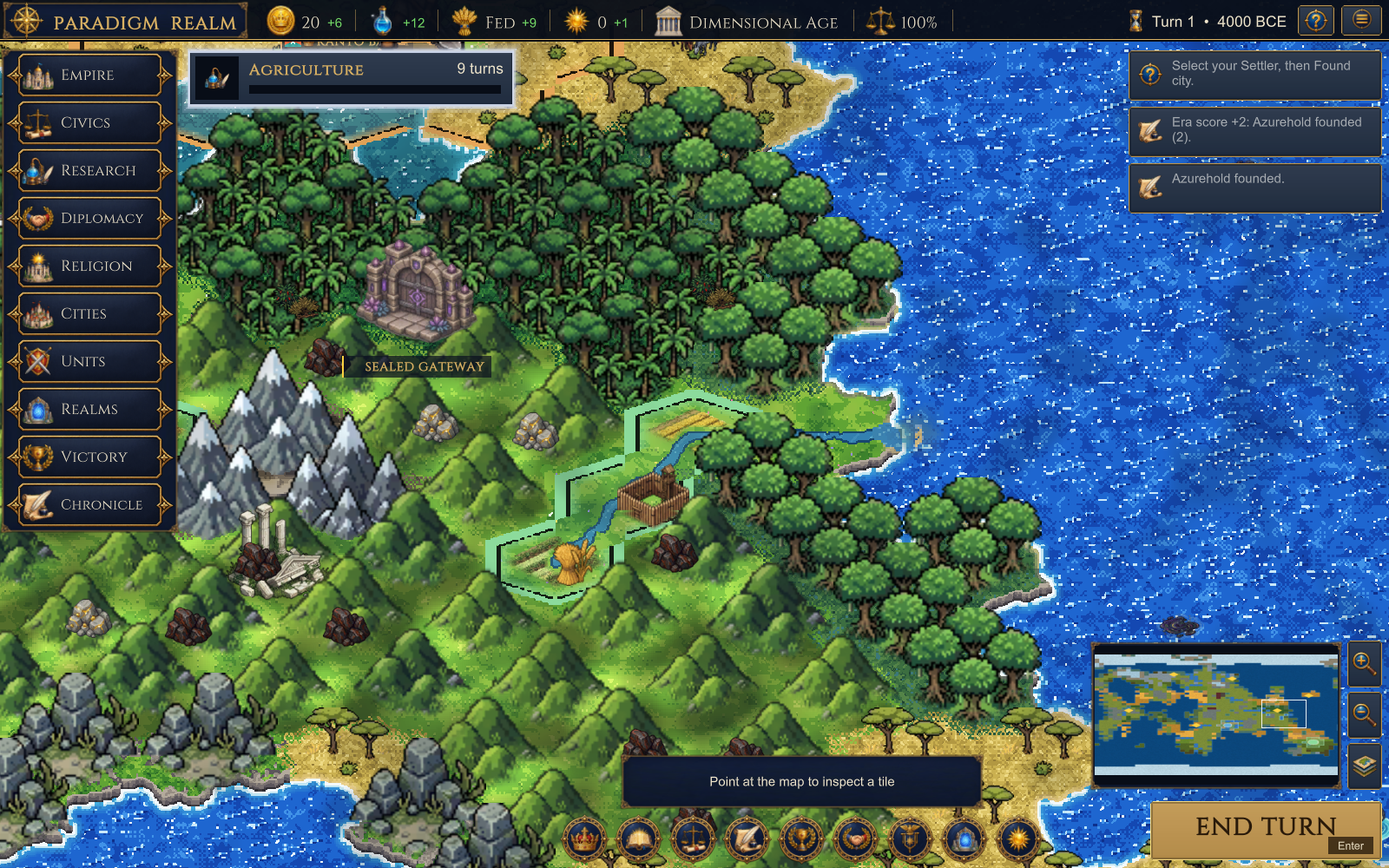
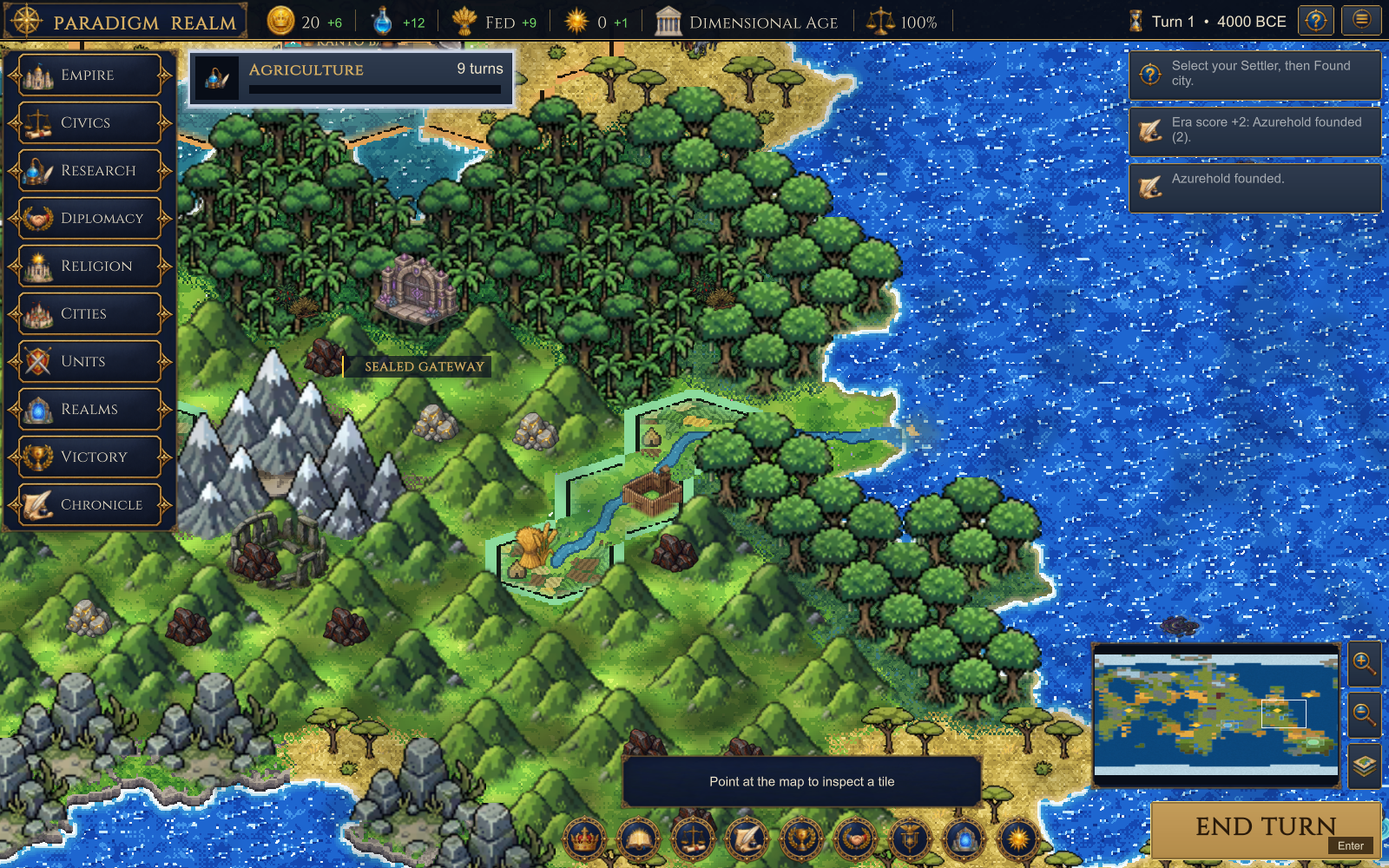
Level shores, looser river mouths, patchwork farms by rivers, smaller gates
- Only the rocky coastline has a cliff; every other shore is level with
  the sea.
- River mouths flare with uneven banks and scattered shoals.
- A farm on a river tile is a patchwork of plots on both banks; farmsteads,
  mines, forts, villages, ruins and resource markers stand on the tile's
  driest spot instead of the water.
- Gateways drawn 30% smaller, in the middle of their tile.
- The eastern temple ruin is no longer used.

Checks extended; engine harness and Unity checks pass; a build ran
-mapShot and -autoShot with no exceptions. Not hand-played.

diff --git a/Unity/Assets/Scripts/IsoRenderer.cs b/Unity/Assets/Scripts/IsoRenderer.cs
@@ -188,33 +188,15 @@ namespace ParadigmRealm
             else if(PixelArt.IsWater(t.terrain))for(int k=0;k<dirs;k++){var n=world.Step(t.x,t.y,offI[k],offJ[k]);if(IsoKnownTerrain(n)!=7)continue;int flow=world.RiverLinks(world.At(n.x,n.y));if(flow<0||(flow&(1<<((k+dirs/2)%dirs)))!=0)mask|=1<<k;}
             return mask;
         }
-        // A farm on a river tile leaves the river clear (owner request, 10 Nov 2026): the field picture is cut away over the water
-        // and a little either side of it, so the furrows stop at the banks. One picture is kept for each field, river shape and layout.
+        // A farm on a river tile is a patchwork of small plots on both banks that leaves the river and its banks clear (owner
+        // request, 10 Nov 2026; PixelArt.FarmQuilt). One picture is kept for each river shape, layout and pattern.
         readonly Dictionary<long,Texture2D> riverFields=new Dictionary<long,Texture2D>();
-        Texture2D FieldAroundRiver(Texture2D field,int fieldVariant,Tile t,float spanX,float spanY)
+        Texture2D RiverQuilt(Tile t)
         {
-            int mask=RiverMaskOf(t),variant=(t.x*7+t.y*3)%3;long key=fieldVariant|((long)mask<<4)|((long)variant<<12)|(world.Hex?1L<<16:0);
+            int mask=RiverMaskOf(t),variant=(t.x*7+t.y*3)%3,seed=((t.x*5+t.y*3)&0x7fffffff)%4;long key=seed|((long)mask<<4)|((long)variant<<12)|(world.Hex?1L<<16:0);
             Texture2D made;if(riverFields.TryGetValue(key,out made)&&made!=null)return made;
-            try
-            {
-                var px=ReadArtPixels(field);int w=field.width,h=field.height;var river=PixelArt.RiverShape(world.Hex,mask,variant);var cv=new PixelCanvas(w,h);
-                for(int y=0;y<h;y++)for(int x=0;x<w;x++)
-                {
-                    uint c=px[y*w+x];if((c>>24)==0)continue;
-                    // Where this field pixel falls on the tile picture, and how near the river is there.
-                    double rx=(.5+((x+.5)/w-.5)*spanX)*river.w,ry=(.5+((y+.5)/h-.5)*spanY)*river.h;double near=99;
-                    for(int dy=-4;dy<=4;dy++)for(int dx=-4;dx<=4;dx++){int qx=(int)Math.Floor(rx)+dx,qy=(int)Math.Floor(ry)+dy;if(qx<0||qy<0||qx>=river.w||qy>=river.h||(river.Get(qx,qy)>>24)==0)continue;double d=Math.Sqrt(dx*dx+dy*dy);if(d<near)near=d;}
-                    if(near<=2.2)continue;                         // the water and its grassy bank
-                    if(near<=3.4){uint a=(uint)((c>>24)*.55);c=(a<<24)|(c&0xFFFFFFu);} // the field thins out toward the bank
-                    cv.Set(x,y,c);
-                }
-                made=SoftTexture(cv);themeTextures.Add(made);
-            }
-            catch(Exception){made=field;}
-            riverFields[key]=made;return made;
+            made=TileTexture(PixelArt.Scale2x(PixelArt.FarmQuilt(world.Hex,mask,variant,seed)));riverFields[key]=made;return made;
         }
-        // Which side of a river tile is freer of water: -1 west, +1 east. Mines and forts stand there, beside the river, not on it.
-        int DrySide(Tile t){int mask=RiverMaskOf(t),east=0,west=0;int[] offI=world.Hex?World.HexDi:new[]{0,1,0,-1};for(int k=0;k<offI.Length;k++)if((mask&(1<<k))!=0){if(offI[k]>0)east++;else if(offI[k]<0)west++;}return east<west?1:east>west?-1:((t.x+t.y)&1)==0?1:-1;}
         // ---------- drawing ----------
         void DrawIsoMap()
         {
@@ -237,12 +219,17 @@ namespace ParadigmRealm
             // Map-aligned gate pictures (owner's pack, 10 Nov 2026): 256 x 256 with the ground line 16 pixels above the bottom edge and the
             // platform about 87% of the width. Drawn one tile wide, so the platform fits inside the tile, its front corner just above
             // the tile's lower tip; open and sealed pictures of a gate share this placement.
-            float w=64*s,h=w*art.height/Mathf.Max(1,art.width);GUI.DrawTexture(new Rect(sx-w/2,gy+TileHalf()*s-2*s+h*GateBaseline-h,w,h),art,ScaleMode.ScaleToFit,true);return true;}
+            // 30% smaller than a full tile (owner request, 10 Nov 2026: "they must blend more into the landscape"), standing in the
+            // middle of its tile on a soft patch of shade so it sits in the ground, not on top of it.
+            float w=64*s*GateScale,h=w*art.height/Mathf.Max(1,art.width),foot=gy+TileHalf()*s*.5f;
+            var keep=GUI.color;GUI.color=new Color(keep.r,keep.g,keep.b,keep.a*.55f);GUI.DrawTexture(new Rect(sx-w*.46f,foot-w*.2f,w*.92f,w*.3f),IsoPicture(4,8,0));GUI.color=keep;
+            GUI.DrawTexture(new Rect(sx-w/2,foot+h*GateBaseline-h,w,h),art,ScaleMode.ScaleToFit,true);return true;}
+        const float GateScale=.7f;
         const float GateBaseline=16f/256f;
         float TileHalf(){return (world.Hex?PixelArt.HH:PixelArt.DH)/2f;}
         // Ruins in five architectural styles (owner request, 9 Nov 2026), suited to the land: sandstone in desert and steppe, a stepped
-        // pyramid in jungle and mangrove, otherwise classical columns, a stone circle or an eastern temple chosen by place.
-        static int RuinStyle(Tile t){if(t.terrain==3||t.terrain==10||t.terrain==20)return 1;if(t.terrain==11||t.terrain==19)return 2;int[] rest={0,3,4};return rest[((t.x*37+t.y*11)&0x7fffffff)%3];}
+        // pyramid in jungle and mangrove, otherwise classical columns or a stone circle chosen by place.
+        static int RuinStyle(Tile t){if(t.terrain==3||t.terrain==10||t.terrain==20)return 1;if(t.terrain==11||t.terrain==19)return 2;int[] rest={0,3};return rest[((t.x*37+t.y*11)&0x7fffffff)%2];}// the eastern temple (ruin-4) was removed at the owner's request, 10 Nov 2026; the file is kept
         // A settlement fits inside its own tile (owner request, 9 Nov 2026: no overlap onto the next tile): 54 pixels, its lower tip on the tile's.
         Rect SettlementRect(float sx,float gy,float s){float size=54*s;return new Rect(sx-size/2,gy+TileHalf()*s-size,size,size);}
         Texture2D ruinTexture;
@@ -302,7 +289,11 @@ namespace ParadigmRealm
                 var old=GUI.color;if(!visible)GUI.color=Remembered;
                 var ground=TileRect(sx,sy,s);
                 GUI.DrawTexture(ground,IsoGround(t,i,j,frame));
-                if(!water&&t.farm){var field=SpriteSlot("field-"+(IsoVariant(t.x,t.y)%3));if(field!=null){float fw=ground.width*.86f,fh=fw*field.height/Mathf.Max(1,field.width);if(t.terrain==7)field=FieldAroundRiver(field,IsoVariant(t.x,t.y)%3,t,.86f,fh/Mathf.Max(1,ground.height));GUI.DrawTexture(new Rect(ground.center.x-fw/2,ground.center.y-fh/2,fw,fh),field,ScaleMode.StretchToFill,true);}else{var farm=IsoPicture(2,IsoVariant(t.x,t.y),0);if(farm!=null)GUI.DrawTexture(ground,farm);}}
+                // On a river tile nothing is built on the water (owner request, 10 Nov 2026): farmsteads, mines, forts, villages, ruins
+                // and resource markers stand on the driest part of the tile, smaller where the room is tight.
+                Vector2 dry=Vector2.zero;float dryScale=1;
+                if(t.terrain==7){double dfx,dfy,room;PixelArt.DrySpot(world.Hex,RiverMaskOf(t),(t.x*7+t.y*3)%3,out dfx,out dfy,out room);dry=new Vector2((float)(dfx-.5)*ground.width,(float)(dfy-.5)*ground.height);dryScale=Mathf.Clamp((float)room/15f,.42f,1f);}
+                if(!water&&t.farm){var field=SpriteSlot("field-"+(IsoVariant(t.x,t.y)%3));if(t.terrain==7)GUI.DrawTexture(ground,RiverQuilt(t));else if(field!=null){float fw=ground.width*.86f,fh=fw*field.height/Mathf.Max(1,field.width);GUI.DrawTexture(new Rect(ground.center.x-fw/2,ground.center.y-fh/2,fw,fh),field,ScaleMode.StretchToFill,true);}else{var farm=IsoPicture(2,IsoVariant(t.x,t.y),0);if(farm!=null)GUI.DrawTexture(ground,farm);}}
                 if(t.road)
                 {
                     var road=RoadPicture(t);if(road!=null)GUI.DrawTexture(ground,road);
@@ -339,16 +330,17 @@ namespace ParadigmRealm
                 else if(sprite!=null){if(portOf!=null)treeScale=.82f;else if(hamlet)treeScale=.5f;/* farmsteads at half size: their houses match the city's buildings (owner request, 9 Nov 2026) */
                     // No two hills are the same size or sit in quite the same place on their tile, so a range does not line up in rows
                     // (owner report, 10 Nov 2026).
-                    float hillX=0,hillY=0;if(t.terrain==2&&!hamlet&&portOf==null){int hv=(t.x*92821+t.y*68917)&0x7fffffff;treeScale=.9f+(hv%19)/100f;hillX=((hv/19%9)-4)*.9f*s;hillY=((hv/171%7)-3)*.7f*s;}
+                    float hillX=dry.x,hillY=dry.y;if(t.terrain==7)treeScale*=Mathf.Max(.8f,dryScale);if(t.terrain==2&&!hamlet&&portOf==null){int hv=(t.x*92821+t.y*68917)&0x7fffffff;treeScale=.9f+(hv%19)/100f;hillX=((hv/19%9)-4)*.9f*s;hillY=((hv/171%7)-3)*.7f*s;}
                     GUI.DrawTexture(new Rect(sx-PixelArt.AX*s*treeScale+hillX,gy-PixelArt.AY*s*treeScale+hillY,64*s*treeScale,64*s*treeScale),sprite);}
                 if(portOf!=null&&!portOf.portLinked&&portOf.owner==0){var warn=new Rect(sx+8*s,gy-22*s,9*s,9*s);Fill(warn,new Color(.85f,.2f,.15f,.92f));GUI.Label(warn,"!",small);}
                 var improvement=new Rect(sx-18*s,gy-22*s,36*s,36*s);
                 // Mines and forts are drawn at the map's angle and sized to their tile (owner request, 9 Nov 2026); the old upright pictures are the fallback.
                 // On a river tile they are drawn smaller and to the drier side, so the river still runs past them (owner request, 10 Nov 2026).
-                float besideRiver=t.terrain==7&&(t.mine||t.fort)?DrySide(t)*13*s:0,riverScale=t.terrain==7?.72f:1f;
-                if(t.mine){var art=SpriteSlot("improve-mine");if(art!=null)GUI.DrawTexture(new Rect(sx-21*s*riverScale+besideRiver,gy+TileHalf()*s-44*s*riverScale-(1-riverScale)*10*s,42*s*riverScale,42*s*riverScale),art,ScaleMode.ScaleToFit,true);else DrawArt("mine",improvement);}
-                if(t.fort){var art=SpriteSlot("improve-fort");if(art!=null)GUI.DrawTexture(new Rect(sx-23*s*riverScale+besideRiver,gy+TileHalf()*s-48*s*riverScale-(1-riverScale)*10*s,46*s*riverScale,46*s*riverScale),art,ScaleMode.ScaleToFit,true);else DrawArt("fort",improvement);}
-                if(source.ruin){var ruinArt=SpriteSlot("ruin-"+RuinStyle(t));if(ruinArt!=null)GUI.DrawTexture(new Rect(sx-24*s,gy+TileHalf()*s-50*s,48*s,48*s),ruinArt,ScaleMode.ScaleToFit,true);else{if(ruinTexture==null)ruinTexture=PixelTexture(PixelArt.Ruins());GUI.DrawTexture(new Rect(sx-PixelArt.AX*s,gy-PixelArt.AY*s,64*s,64*s),ruinTexture);}}
+                // On a river tile the picture's footing (about two thirds of the way down it) is set on the dry spot.
+                bool riverTile=t.terrain==7;if(riverTile)improvement=new Rect(improvement.x+dry.x,improvement.y+dry.y+8*s,improvement.width,improvement.height);
+                if(t.mine){var art=SpriteSlot("improve-mine");float size=42*s*dryScale;if(art!=null)GUI.DrawTexture(riverTile?new Rect(sx+dry.x-size/2,gy+dry.y-size*.7f,size,size):new Rect(sx-21*s,gy+TileHalf()*s-44*s,42*s,42*s),art,ScaleMode.ScaleToFit,true);else DrawArt("mine",improvement);}
+                if(t.fort){var art=SpriteSlot("improve-fort");float size=46*s*dryScale;if(art!=null)GUI.DrawTexture(riverTile?new Rect(sx+dry.x-size/2,gy+dry.y-size*.7f,size,size):new Rect(sx-23*s,gy+TileHalf()*s-48*s,46*s,46*s),art,ScaleMode.ScaleToFit,true);else DrawArt("fort",improvement);}
+                if(source.ruin){var ruinArt=SpriteSlot("ruin-"+RuinStyle(t));float size=48*s*dryScale;if(ruinArt!=null)GUI.DrawTexture(riverTile?new Rect(sx+dry.x-size/2,gy+dry.y-size*.7f,size,size):new Rect(sx-24*s,gy+TileHalf()*s-50*s,48*s,48*s),ruinArt,ScaleMode.ScaleToFit,true);else{if(ruinTexture==null)ruinTexture=PixelTexture(PixelArt.Ruins());GUI.DrawTexture(new Rect(sx-PixelArt.AX*s,gy-PixelArt.AY*s,64*s,64*s),ruinTexture);}}
                 // A sealed gateway the player has found keeps its name on the map (owner request).
                 {var story=world.livingWorld?world.StoryAt(source.x,source.y):null;if(story!=null&&story.deaths>=LivingCatalog.GraveyardAt){isoCityNames.Add("Graveyard");isoCityPos.Add(new Vector2(sx,gy));isoCityInk.Add(new Color(.7f,.7f,.75f));isoCityRefs.Add(null);}}
                 if(source.gateLink>0&&source.realm==0&&world.gatesLocked&&!world.GateOpen(source)&&world.gatesFound!=null&&world.gatesFound.Contains(source.y*width+source.x)){isoGates.Add(new Vector2(sx,gy));isoGateStyles.Add(world.GateStyle(source));isoCityNames.Add("Sealed gateway");isoCityPos.Add(new Vector2(sx,gy));isoCityInk.Add(new Color(1f,.82f,.25f));isoCityRefs.Add(null);}
@@ -358,7 +350,7 @@ namespace ParadigmRealm
                 if(!visible&&!string.IsNullOrEmpty(t.rememberedCity)){GUI.DrawTexture(SettlementRect(sx,gy,s),SettlementTexture(CityVisualEra(0),3,0,t.x+t.y),ScaleMode.ScaleToFit,true);isoCityNames.Add(t.rememberedCity);isoCityPos.Add(new Vector2(sx,gy));isoCityInk.Add(new Color(.6f,.62f,.66f));isoCityRefs.Add(null);}
                 GUI.color=old;
                 int cell=t.y*width+t.x;City c;viewCities.TryGetValue(cell,out c);if(c!=null&&!(c.owner==0||visible))c=null;
-                if(t.resource>0){isoResTiles.Add(t);isoResPos.Add(new Vector2(sx,gy));isoResSeen.Add(visible);}
+                if(t.resource>0){isoResTiles.Add(t);isoResPos.Add(new Vector2(sx+dry.x,gy+dry.y-(t.terrain==7?10*s:0)));isoResSeen.Add(visible);}
                 if(c!=null){DrawCityArt(c,SettlementRect(sx,gy,s));isoCityNames.Add(c.name);isoCityPos.Add(new Vector2(sx,gy));isoCityInk.Add(nations[c.owner]);isoCityRefs.Add(c);}
                 Unit first=null,picked=null;int count=0;List<Unit> stackAt;
                 if(viewStacks.TryGetValue(cell,out stackAt))foreach(var a in stackAt){if(!(a.owner==0||visible)||Gliding(a.id))continue;count++;if(first==null)first=a;if(a.id==selected)picked=a;}

diff --git a/Unity/Assets/Scripts/PixelArt.cs b/Unity/Assets/Scripts/PixelArt.cs
@@ -1129,8 +1129,19 @@ namespace ParadigmRealm
                     // rocky rim elsewhere), sandy beaches in places and along deserts and savanna, ice at the poles.
                     if(shore<=6.2)
                     {
-                        bool ice=t==14||t==15,beach=!ice&&(t==3||t==16||(t!=18&&t!=5&&t!=17&&VNoise(gx/22.0,gy/16.0,511)>.6));
-                        if(ice||beach){if(shore<=3.2)c=MixC(c,ice?Ice[4]:Sand[3],shore<=1.5?.7:shore<=2.3?.42:.18);}
+                        // Only the rocky coastline stands above the water as a cliff (owner request, 10 Nov 2026: "other than the rocky
+                        // cliff tiles there should absolutely not be a step up from the sea to land"). Every other shore meets the sea
+                        // at its own level: sand on dry and sandy coasts, shingle or mud elsewhere, ice at the poles, and a low rim of
+                        // loose rock under mountains and volcanoes, each fading into the land with no dark line or face.
+                        bool ice=t==14||t==15,cliff=t==18;
+                        if(ice){if(shore<=3.2)c=MixC(c,Ice[4],shore<=1.5?.7:shore<=2.3?.42:.18);}
+                        else if(t==5||t==17){if(shore<=2.6)c=MixC(c,RampPick(Rock,.62+(Hsh(gx,gy,515)-.5)*.3),shore<=1.5?.6:.3);}
+                        else if(!cliff)
+                        {
+                            double kind=VNoise(gx/22.0,gy/16.0,511);uint lip=t==3||t==16||t==20||kind>.5?Sand[3]:kind>.3?MixC(Sand[2],Rgb(148,150,136),.6):MixC(Sand[1],Rgb(96,104,70),.55);
+                            double reach=3.4+1.6*VNoise(gx/9.0,gy/9.0,517);
+                            if(shore<=reach)c=MixC(c,lip,shore<=1.5?.72:shore<=2.4?.48:.24*(1-(shore-2.4)/(reach-2.3)));
+                        }
                         else
                         {
                             int below=0;for(int k=1;k<=6&&below==0;k++)if(IsWater(field[(fy+k)*W+fx]))below=k;
@@ -1201,7 +1212,7 @@ namespace ParadigmRealm
         static void RiverMouth(PixelCanvas cv,int[] field,int W,int cw,int ch,double mx,double my,double dx,double dy,int ox,int oy)
         {
             double len=Math.Sqrt(dx*dx+dy*dy);if(len<=0)return;dx/=len;dy/=len;double px=-dy,py=dx;
-            const double Up=12,Out=9,Plume=24;int seed=(int)Math.Round(ox+mx)*31+(int)Math.Round(oy+my)*17;double barSide=(Hsh(seed,7,521)-.5)*4,lean=(Hsh(seed,9,529)-.5)*.5;
+            const double Up=17,Out=9,Plume=26;int seed=(int)Math.Round(ox+mx)*31+(int)Math.Round(oy+my)*17;double barSide=(Hsh(seed,7,521)-.5)*4,lean=(Hsh(seed,9,529)-.5)*.5;
             // The coast wanders, so the shore is rarely on the tile edge itself. The mouth is set where the land really ends along the
             // river's line, looked for within eight pixels either side of the edge: the strip both tiles can see, so both agree.
             double shore=-8;for(int a=8;a>=-8;a--){int sx=(int)Math.Floor(mx+dx*a),sy=(int)Math.Floor(my+dy*a);if(sx<-Margin||sy<-Margin||sx>=cw+Margin||sy>=ch+Margin)continue;int f=field[(sy+Margin)*W+sx+Margin];if(!IsWater(f)||f==7){shore=a;break;}}
@@ -1214,7 +1225,7 @@ namespace ParadigmRealm
                 // The outflow drifts a little to one side as it leaves the shore, as a current along the coast would carry it.
                 across-=Math.Max(0,along)*lean;double side=Math.Abs(across);
                 // The funnel: as wide as the river upstream, about twice that at the shore, its banks uneven.
-                double half=2.4+(along+Up)*.36+(VNoise(gx/4.0,gy/4.0,523)-.5)*2.6;
+                double flare=Math.Max(0,Math.Min(1.25,(along+Up)/(Up+Out)));double half=2.3+7.5*Math.Pow(flare,1.9)+(VNoise(gx/5.0,gy/5.0,523)-.5)*(1.2+3.2*flare)+Math.Sin(along*.45+seed%7)*.9*flare;
                 if(!sea)
                 {
                     if(along<=Out&&side<=half)
@@ -1229,14 +1240,89 @@ namespace ParadigmRealm
                 }
                 if(along<-2)continue;
                 // The mouth bar: a low crescent of sand where the jet drops its load, its horns pointing back to the shore, awash at its edge.
-                {double bx=along-(Out+1)+across*across*.045,by=across-barSide,d=bx*bx/4.6+by*by/38.0;
-                 if(d<=1&&Hsh(gx,gy,525)>.18){cv.Set(x,y,d>.55?MixC(was,Rgb(214,232,226),.6):MixC(Sand[3],Sand[2],Hsh(gx,gy,533)));continue;}}
+                // Shoals: the coarsest sediment drops where the jet slows, in a loose arc of small sandbanks just off the mouth,
+                // awash at their edges and split by the channels between them, never one neat bar.
+                {double bx=along-(Out-1)+across*across*.035,by=across-barSide,d=bx*bx/22.0+by*by/70.0;
+                 if(d<=1){double bank=VNoise(gx/3.4,gy/2.6,525)-.52-d*.16;if(bank>.1){cv.Set(x,y,MixC(Sand[3],Sand[2],Hsh(gx,gy,533)));continue;}if(bank>.03){cv.Set(x,y,MixC(was,Rgb(206,226,214),.55));continue;}}}
                 // The plume: turbid water spreading in a fan, strongest in the middle near the mouth, thinning into streaks and patches.
                 double fan=6+Math.Max(0,along)*.85;if(side>=fan)continue;
                 double strength=(1-Math.Max(0,along)/Plume)*(1-side/fan);
                 strength*=.45+.9*VNoise(gx/9.0,gy/7.0,527)+.35*(VNoise(gx/3.0,gy/3.0,535)-.5);
                 if(strength>.05)cv.Set(x,y,MixC(was,Silt,Math.Min(.55,strength*.85)*(Bay(gx,gy)<strength*3?1:.6)));
             }
+        }
+        // ---------- building beside a river ----------
+        // Owner request, 10 Nov 2026: what people build on a river tile works with and around the river, like a patchwork quilt,
+        // and nothing is put on the water. Both helpers work on the finished tile picture (hexagon or diamond).
+        static bool OnTile(bool hex,int x,int y,double inset){if(hex)return InHex(x+.5-HW/2.0,y+.5-HH/2.0,HW,-inset);return Math.Abs(x+.5-DW/2.0)/(DW/2.0)+Math.Abs(y+.5-DH/2.0)/(DH/2.0)<=1-inset/(DH/2.0);}
+        // How far each pixel of the tile is from the river, in pixels (up to 9).
+        static double[] RiverDistance(PixelCanvas river)
+        {
+            int w=river.w,h=river.h;var d=new double[w*h];
+            for(int y=0;y<h;y++)for(int x=0;x<w;x++){double best=9;for(int dy=-8;dy<=8;dy++)for(int dx=-8;dx<=8;dx++){int qx=x+dx,qy=y+dy;if(qx<0||qy<0||qx>=w||qy>=h||(river.Get(qx,qy)>>24)==0)continue;double q=Math.Sqrt(dx*dx+dy*dy*1.6);if(q<best)best=q;}d[y*w+x]=best;}
+            return d;
+        }
+        static readonly Dictionary<int,double[]> drySpots=new Dictionary<int,double[]>();
+        // The driest place on a river tile: the point farthest from the water and from the tile's edge. fx, fy are its place across
+        // and down the tile picture (0..1) and room is how many pixels of dry ground lie around it.
+        public static void DrySpot(bool hex,int mask,int variant,out double fx,out double fy,out double room)
+        {
+            int key=(hex?1:0)|mask<<1|variant<<9;double[] hit;
+            if(!drySpots.TryGetValue(key,out hit))
+            {
+                var river=RiverShape(hex,mask,variant);var dist=RiverDistance(river);int w=river.w,h=river.h;double best=-1;int bx=w/2,by=h/2;
+                for(int y=0;y<h;y++)for(int x=0;x<w;x++)
+                {
+                    if(!OnTile(hex,x,y,0))continue;
+                    // Room to the edge: how far the point can be pushed inward before it leaves the tile.
+                    double edge=0;while(edge<12&&OnTile(hex,x,y,edge+1))edge++;
+                    double r=Math.Min(dist[y*w+x],edge*.8)-Math.Abs(y-h*.55)*.05;if(r>best){best=r;bx=x;by=y;}
+                }
+                hit=new[]{(bx+.5)/w,(by+.5)/h,Math.Max(0,best)};drySpots[key]=hit;
+            }
+            fx=hit[0];fy=hit[1];room=hit[2];
+        }
+        // Fields on a river tile: a quilt of small plots, each with its own crop and its furrows running its own way, parted by
+        // hedge lines, on both banks. The plots stop short of the water behind a strip of bank, thin out raggedly toward it and
+        // toward the tile's edge, and a small barn stands on the driest ground.
+        public static PixelCanvas FarmQuilt(bool hex,int mask,int variant,int seed)
+        {
+            var river=RiverShape(hex,mask,variant);var dist=RiverDistance(river);int w=river.w,h=river.h;var cv=new PixelCanvas(w,h);
+            double fx,fy,room;DrySpot(hex,mask,variant,out fx,out fy,out room);int barnX=(int)(fx*w),barnY=(int)(fy*h)+2;bool barn=room>=6.5;
+            for(int y=0;y<h;y++)for(int x=0;x<w;x++)
+            {
+                if(!OnTile(hex,x,y,2.5))continue;double near=dist[y*w+x];
+                double ragged=Hsh(x+seed*13,y,551);if(near<=3.0||near<=4.4&&ragged>.45)continue;      // the water, its bank, a ragged margin
+                if(!OnTile(hex,x,y,4.5)&&ragged>.55)continue;                                           // a ragged outer edge
+                if(barn&&Math.Abs(x-barnX)<=6&&y-barnY<=3&&barnY-y<=7)continue;                         // the yard round the barn
+                // Plots: a skewed, gently warped grid, so no two tiles share one pattern and no line runs straight for long.
+                double wx=x+(VNoise(x/9.0+seed,y/9.0,553)-.5)*5,wy=y*1.55+(VNoise(x/9.0,y/9.0+seed,555)-.5)*5;
+                double u=(wx+wy*.45)/11.0+seed*.37,v=(wy-wx*.3)/9.0+seed*.61;int cu=(int)Math.Floor(u),cvv=(int)Math.Floor(v);double pu=u-cu,pv=v-cvv;
+                if(pu<.1||pv<.13){cv.Set(x,y,Hsh(x,y,557)>.35?Rgb(58,98,44):Rgb(44,78,36));continue;}   // hedge between plots
+                int plot=(int)(Hsh(cu*7+seed,cvv*13+seed,559)*1000);int crop=plot%5;bool across=(plot/5)%2==0;int row=across?(x+y*2+plot)%3:((x*2-y+plot)%3+3)%3;uint c;
+                switch(crop)
+                {
+                    case 0:c=row==0?Rgb(196,150,52):Hsh(x,y,561)>.8?Rgb(250,220,110):Rgb(228,188,70);break;      // ripe wheat
+                    case 1:c=row==0?Rgb(56,100,40):Hsh(x,y,563)>.85?Rgb(132,180,68):Rgb(98,152,54);break;        // green crop in rows
+                    case 2:c=row==0?Rgb(96,66,40):Rgb(128,92,56);break;                                          // ploughed earth
+                    case 3:c=row==0?Rgb(170,150,84):Rgb(206,186,112);break;                                      // stubble and hay
+                    default:c=row==0?Rgb(72,118,58):Rgb(116,164,82);break;                                       // pasture
+                }
+                cv.Set(x,y,c);
+            }
+            if(barn)
+            {
+                // A thatched barn with a dark doorway, seven pixels wide, on the driest spot.
+                uint wall=Rgb(168,128,84),shade=Rgb(120,86,56),roof=Rgb(196,160,84),roofDark=Rgb(150,112,56),line=Rgb(40,30,24);
+                for(int dy=-6;dy<=2;dy++)for(int dx=-4;dx<=4;dx++)
+                {
+                    int x=barnX+dx,y=barnY+dy;if(x<0||y<0||x>=w||y>=h||dist[y*w+x]<=2.5)continue;uint c=0;
+                    if(dy>=-1){if(Math.Abs(dx)<=3)c=dx>=2?shade:wall;if(Math.Abs(dx)==4||dy==2&&Math.Abs(dx)<=3)c=Math.Abs(dx)==4&&dy==2?0:line;if(dy>=0&&dy<=1&&dx==0)c=line;}
+                    else{int half=4-(-1-dy)+1;if(half<0)continue;if(Math.Abs(dx)<=half)c=Math.Abs(dx)==half||dy==-6?line:(dx+dy)%2==0?roof:roofDark;}
+                    if(c!=0)cv.Set(x,y,c);
+                }
+            }
+            return cv;
         }
         // The shape of a river on a finished tile picture, for things drawn over the tile that must leave the water clear.
         public static PixelCanvas RiverShape(bool hex,int mask,int variant)

diff --git a/Unity/Assets/Scripts/ContentChecks.cs b/Unity/Assets/Scripts/ContentChecks.cs
@@ -362,6 +362,15 @@ static void TenthNovemberChecks(){
      var land=new[]{0,0,0,0,7,4,0,0,0};var shut=PixelArt.ComposeHex(land,10,10,0,0);var open=PixelArt.ComposeHex(land,10,10,0,1);int wider=0;
      for(int y=0;y<PixelArt.HH;y++)for(int x=PixelArt.HW/2;x<PixelArt.HW;x++)if(shut.Get(x,y)!=open.Get(x,y))wider++;Check(wider>80,"a river arm that reaches the sea widens into a funnel ("+wider+")");
      var sq=PixelArt.Compose(new[]{0,0,0,0,7,4,0,0,0},10,10,0,1<<1);Check(sq!=null&&PixelArt.RiverShape(false,1<<1,0).w==PixelArt.DW&&PixelArt.RiverShape(true,1,0).w==PixelArt.HW,"both map layouts draw mouths and give the river's shape");}
+    // Building beside a river: the quilt of fields never covers the water, and the dry spot is on dry ground inside the tile.
+    foreach(bool hex in new[]{true,false})for(int mask=1;mask<(hex?64:16);mask+=hex?7:3){var river=PixelArt.RiverShape(hex,mask,1);var quilt=PixelArt.FarmQuilt(hex,mask,1,2);int plots=0,wet=0;
+        for(int y=0;y<river.h;y++)for(int x=0;x<river.w;x++){bool field=(quilt.Get(x,y)>>24)!=0;if(field)plots++;if(field&&(river.Get(x,y)>>24)!=0)wet++;}
+        Check(plots>150&&wet==0,"fields on a river tile leave the water clear (river "+mask+", "+plots+" field pixels, "+wet+" on water)");
+        double fx,fy,room;PixelArt.DrySpot(hex,mask,1,out fx,out fy,out room);int sx=(int)(fx*river.w),sy=(int)(fy*river.h);
+        Check(room>=3&&(river.Get(sx,sy)>>24)==0&&fx>.1&&fx<.9&&fy>.1&&fy<.9,"a building on a river tile stands on dry ground (river "+mask+", room "+room.ToString("0.0")+")");}
+    // Shores: grassland meets the sea with no dark rock face; only the rocky coastline has one.
+    {Func<int,int> darkRock=land=>{var cv=PixelArt.ComposeHex(new[]{land,land,land,land,land,land,4,4,4},12,12,0,0);int n=0;for(int y=0;y<PixelArt.HH;y++)for(int x=0;x<PixelArt.HW;x++){uint c=cv.Get(x,y);if((c>>24)==0)continue;int r=(int)(c>>16&255),g=(int)(c>>8&255),b=(int)(c&255);if(Math.Abs(r-g)<14&&Math.Abs(g-b)<18&&r<120&&r>30)n++;}return n;};
+     int grass=darkRock(0),rocky=darkRock(18);Check(grass<rocky/3&&rocky>20,"only the rocky coastline rises from the sea as a cliff (grey rock pixels: grassland "+grass+", rocky coast "+rocky+")");}
 }
 static void NinthNovemberChecks(){
     var w=World.New(511,"Ninth",0,1,1,0,1,2,3,hex:true,rations:true);

diff --git a/Unity/Assets/Scripts/AutoShot.cs b/Unity/Assets/Scripts/AutoShot.cs
@@ -60,7 +60,7 @@ namespace ParadigmRealm
             foreach(var m in mouths){isoWidth=128;FocusTile(m.x,m.y);yield return CleanShot(folder,"1-river-mouth-"+(shot++)+".bmp");}
             // A farm and a fort on river tiles a little upstream of the first mouth.
             if(mouths.Count>0){var river=world.tiles.Where(t=>t.realm==0&&t.terrain==7&&!mouths.Contains(t)).OrderBy(t=>world.Distance(t.x,t.y,mouths[0].x,mouths[0].y)).Take(4).ToList();
-                for(int k=0;k<river.Count;k++){if(k==1)river[k].fort=true;else river[k].farm=true;river[k].owner=0;}
+                for(int k=0;k<river.Count;k++){if(k==1)river[k].fort=true;else river[k].farm=true;if(k==2)river[k].resource=1;if(k==3)river[k].village=true;river[k].owner=0;}
                 if(river.Count>0){isoWidth=128;FocusTile(river[0].x,river[0].y);yield return CleanShot(folder,"2-farm-on-river.bmp");isoWidth=64;yield return CleanShot(folder,"2b-farm-on-river-far.bmp");}}
             // Hills.
             {var hill=world.tiles.Where(t=>t.realm==0&&t.terrain==2).OrderByDescending(t=>Enumerable.Range(0,di.Length).Count(k=>{var n=world.Step(t.x,t.y,di[k],dj[k]);return n!=null&&n.terrain==2;})).ThenBy(t=>t.y*world.Width+t.x).FirstOrDefault();

diff --git a/CLAUDE.md b/CLAUDE.md
@@ -25,6 +25,7 @@ Canonical repository: https://github.com/y-dechrau/Paradigm-Realm (the lower-cas
   - **Cities:** "Why?" mood panel (`MoodReasons`, `MoodRemedies`), previous/next arrows (Back returns to the first city), Auto-manage (`CityCare.cs`, `UnitAffordable`), growth limit hides unknown buildings (`GrowthLimitReason`).
   - **Religion:** faiths unlock in historical order (two at Mysticism); four tabs (Overview with `FaithNextStep`, Faith Tree, Beliefs, More).
   - **Checks:** `ContentChecks.EveningRequestChecks`. Not hand-played.
+- Owner requests 10 Nov, night (no save change): only the rocky coastline (terrain 18) has a cliff, every other shore is level with the sea; river mouths flare with scattered shoals; a farm on a river tile is a patchwork on both banks (`PixelArt.FarmQuilt`, `RiverQuilt`) and farmsteads, mines, forts, villages, ruins and resource markers stand on the tile's driest spot (`PixelArt.DrySpot`), which replaces `FieldAroundRiver`; gates drawn at 70% in the middle of the tile (`GateScale`); `ruin-4` unused. The owner's pasted gate-opening expedition proposal is NOT built. Not hand-played.
 - Owner requests 10 Nov, evening (no save change): river mouths open into the sea with a funnel, sand bar and silt fan (`PixelArt.RiverMouth`; `RiverMaskOf` also marks water tiles a river flows into); farm fields are cut around rivers (`FieldAroundRiver`, `RiverShape`); hills lose their square base (`SceneryArt.RoundFoot`; `hills-2` unused; size and position vary per tile); owner's map-aligned gate pack replaces `gate-sealed/open-N` and scenes (`DrawGateArt`, 256 x 256, `GateBaseline`); resources on land not in view are shadowed (`ResourceRemembered`); city hover note no longer cut; volcanoes cost land units 2 health on entry and each turn there, never the last point (`VolcanoBurn`, `VolcanoDetour`). `-mapShot <folder>` photographs all of it; `ContentChecks.TenthNovemberChecks`. Not hand-played.
 - Owner request 10 Nov, diplomacy rebuilt after Stellaris (save version 40; `Design/DIPLOMACY-STELLARIS-2026-11-10.md`): replaces the old treaties in every game. Opinion from fading marks (`OpinionMods`, `AddOpinion`), trust capped by the strongest agreement (`Trust`, `TrustCap`), one-word attitudes (`Attitude`), five standing pacts (`Pacts`, 10 turns minimum, 10 turns' notice), free envoys (`SetEnvoy`), rivals and influence-bought claims as just causes after 3 turns (`DeclareRival`, `MakeClaim`, `CasusBelli`), war without cause frightens everyone (`Threat`), war exhaustion per war decides peace (`Exhaustion`), answers shown with reasons (`AcceptanceLines`). Friendship, alliance, border promise, joint war, embassy, denounce, embargo, incite and coalitions are gone; `TreatyKind` values 1, 2, 6 now mean NonAggression, Defensive, Commercial. `Friends()` means a non-aggression or defensive pact, `Allied()` a defensive pact, `Embargoed()` a rivalry. Old saves: `UpgradeDiplomacy40`. `-dipShot <folder>` screenshots the screen; `EngineChecks.dll diplomacy [turns]` reports rival games. Not hand-played; untuned.
 - Owner request 10 Nov, walking frames (no save change): the movement pack's six frames per unit type (`Resources/Visuals/Movement/unit-NN-move-00..05`) are drawn while a unit glides (`WalkFrame`, `DrawUnitArt(...,pose)`), made through `UnitSprite` on first use, 4 frames per tile; glides now 4 tiles a second (max x2). `GraphicsChecks` covers the frames; `-walkProbe <folder>` passes. Not hand-played.

diff --git a/Unity/Design/IMPLEMENTATION-STATUS.md b/Unity/Design/IMPLEMENTATION-STATUS.md
@@ -2,6 +2,18 @@
 
 > **Planned design, not implemented:** see [CORE-DESIGN-16BIT.md](CORE-DESIGN-16BIT.md) for the agreed 16-bit core design and draft balance formulas, and [IMPLEMENTATION-PLAN-16BIT.md](IMPLEMENTATION-PLAN-16BIT.md) for the staged plan (including map sizes from Tiny to Massive), and [WORLD-AND-LOOK-DESIGN.md](WORLD-AND-LOOK-DESIGN.md) for the planned spherical world, realistic biomes and new terrain art.
 
+## Owner requests 10 Nov, night: level shores, looser river mouths, patchwork farms, smaller gates, one ruin removed (no save change)
+
+- **Shores:** only the rocky coastline (terrain 18) rises from the sea as a cliff. Every other shore meets the water at its own level, with no dark rock rim or face: sand on dry and sandy coasts, shingle or mud elsewhere, ice at the poles, a low rim of loose rock under mountains and volcanoes (`PixelArt.GroundPixel`).
+- **River mouths:** the funnel now flares like a trumpet with uneven banks, and the single sand bar is replaced by a loose arc of small shoals (`PixelArt.RiverMouth`).
+- **Building beside a river** (replaces the cut-out field picture of the evening change):
+  - A farm on a river tile is a patchwork of small plots on both banks, each with its own crop and furrow direction, parted by hedges, stopping at the bank, with a small barn on the driest ground (`PixelArt.FarmQuilt`, `IsoRenderer.RiverQuilt`).
+  - Farmsteads, mines, forts, villages, ruins and resource markers on a river tile stand on the driest part of the tile and are drawn smaller where room is tight (`PixelArt.DrySpot`). A large fort on a tile the river crosses through the middle can still touch the bank.
+- **Gateways:** drawn 30% smaller, in the middle of the tile on a soft patch of shade (`GateScale` 0.7).
+- **Ruins:** the eastern temple (`ruin-4`) is no longer used; the file is kept (`RuinStyle`).
+- **Checks:** `ContentChecks.TenthNovemberChecks` also covers fields never on water, dry spots on dry ground and cliffs only on the rocky coastline. Engine harness and Unity `RealmTools.Checks` pass; a build ran `-mapShot` and `-autoShot`. Not hand-played.
+- **Not built:** the owner's pasted proposal for opening gates as an expedition (investigate, meet a requirement, choose how to open) was not asked for in this request and is not implemented.
+
 ## Owner requests 10 Nov, evening: river mouths, farms by rivers, hills, gates, resources, city note, volcanoes (no save change)
 
 - **River mouths** (`PixelArt.RiverMouth`, `IsoRenderer.RiverMaskOf`): a river used to stop at the tile edge behind an unbroken shore. Drawn now after how real mouths form (mouth-bar and river-jet studies; sources in the code comment): the channel widens into a funnel and cuts through the shore, low sand and mud flats replace the rock rim beside it, a crescent sand bar lies a little way out, and a fan of silty water spreads and thins into the sea or lake. The mouth is set where the land really ends along the river's line, and the river tile and the water tile both paint it, so there is no seam. Both map layouts.
